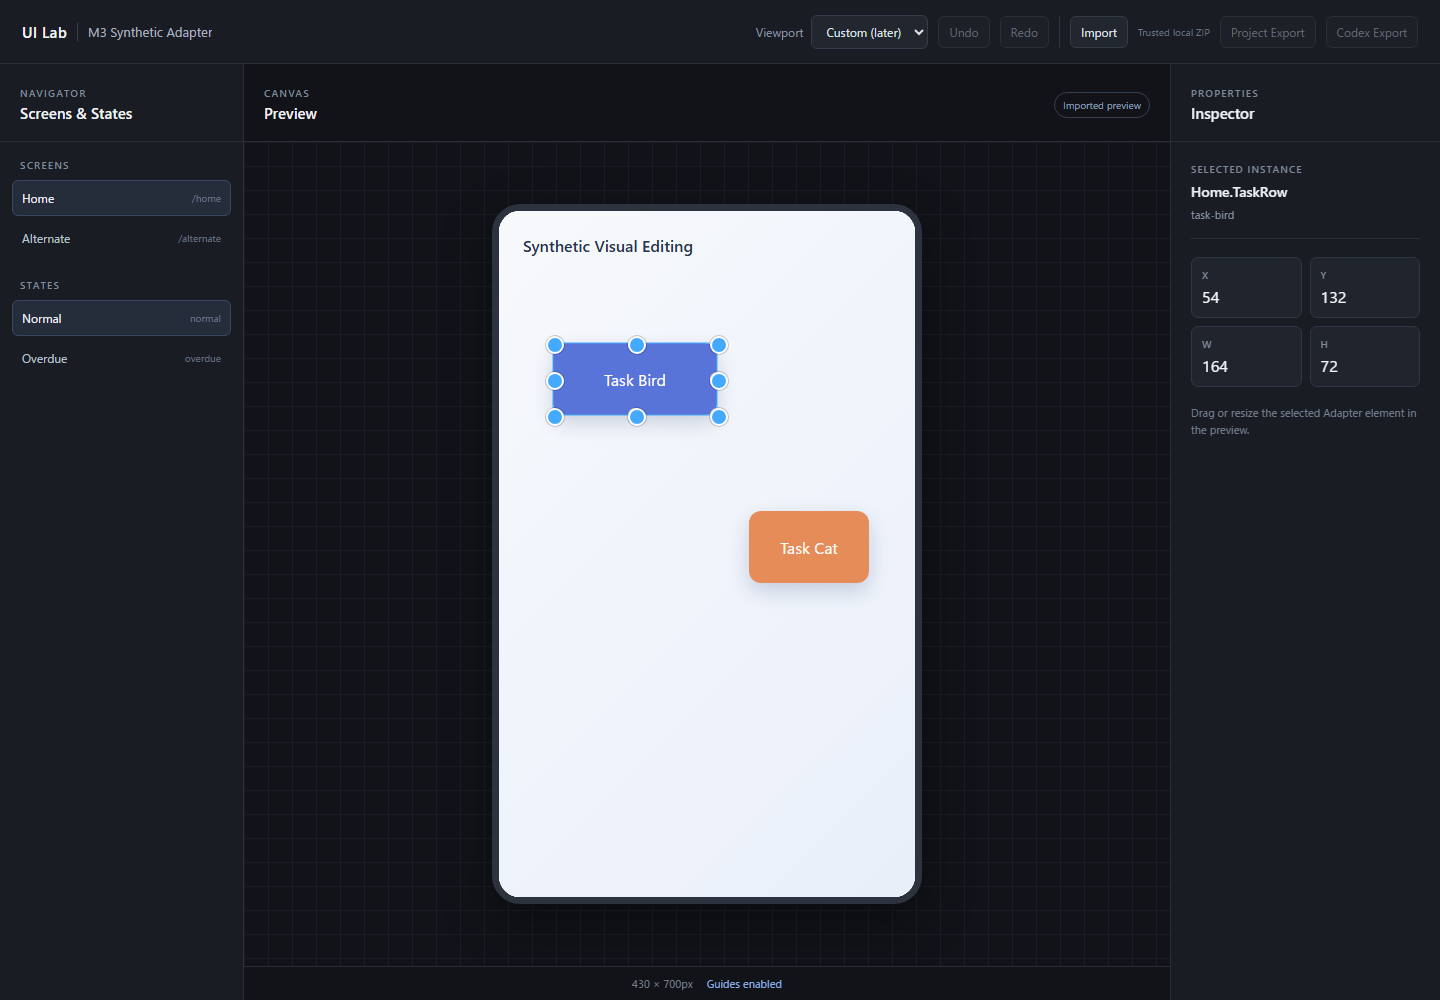
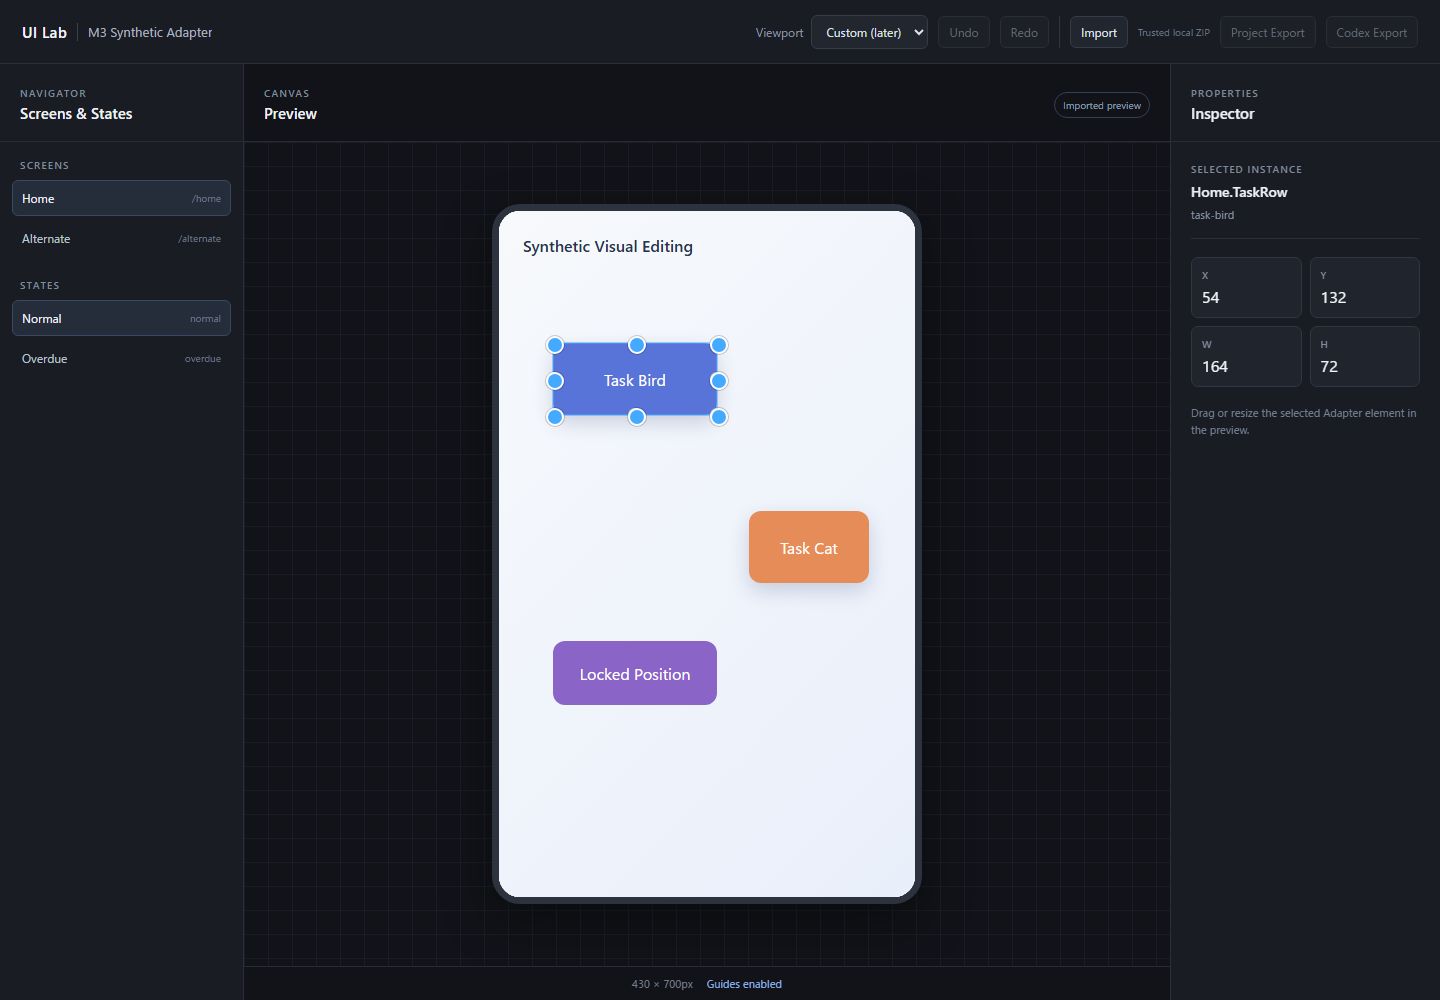
fix: persist resize position changes

Changed region(s): [[0.375, 0.62, 0.5, 0.713]]

diff --git a/e2e/m3.visual.pw.ts b/e2e/m3.visual.pw.ts
@@ -20,6 +20,11 @@ async function createSyntheticAdapterZip(): Promise<Buffer> {
       instances: 'multiple',
       editable: ['position', 'width', 'height'],
     },
+    'Home.LockedRow': {
+      selector: "[data-uilab-component='Home.LockedRow']",
+      instances: 'single',
+      editable: ['width', 'height'],
+    },
   }))
   zip.file('.uilab/tokens.json', JSON.stringify({ color: { accent: '#6f8cff' } }))
   zip.file('.uilab/states.json', JSON.stringify({
@@ -32,10 +37,12 @@ async function createSyntheticAdapterZip(): Promise<Buffer> {
       .canvas { position: relative; width: 100%; height: 100%; background: linear-gradient(135deg, #f7f9fc 0%, #e9effa 100%); }
       .title { position: absolute; left: 24px; top: 24px; color: #27344d; font-weight: 700; }
       [data-uilab-component='Home.TaskRow'] { position: absolute; display: grid; place-items: center; border-radius: 12px; color: white; background: #5874d8; box-shadow: 0 8px 20px rgba(40, 60, 110, .2); user-select: none; }
+      [data-uilab-component='Home.LockedRow'] { position: absolute; display: grid; place-items: center; border-radius: 12px; color: white; background: #8b64c7; user-select: none; }
     </style></head><body><main class="canvas">
       <div class="title">Synthetic Visual Editing</div>
       <div data-uilab-component="Home.TaskRow" data-uilab-id="task-bird" style="left: 54px; top: 132px; width: 164px; height: 72px;">Task Bird</div>
       <div data-uilab-component="Home.TaskRow" data-uilab-id="task-cat" style="left: 250px; top: 300px; width: 120px; height: 72px; background: #e68c58;">Task Cat</div>
+      <div data-uilab-component="Home.LockedRow" data-uilab-id="locked-row" style="left: 54px; top: 430px; width: 164px; height: 64px;">Locked Position</div>
     </main></body></html>`)
   return zip.generateAsync({ type: 'nodebuffer' })
 }
@@ -66,18 +73,41 @@ test('Milestone 3 visual editing flow', async ({ page }) => {
   await page.mouse.move(birdBox.x + 130, birdBox.y + 85, { steps: 8 })
   await page.mouse.up()
   await expect(page.getByTestId('measurement-x')).toHaveText('104')
-  const eastHandle = frame.locator('.uilab-manual-resize-handle--e').first()
-  await expect(eastHandle).toBeVisible()
-  const eastBox = await eastHandle.boundingBox()
-  if (!eastBox) throw new Error('Moveable east handle has no bounding box')
-  await eastHandle.hover()
-  await eastHandle.dispatchEvent('pointerdown', { bubbles: true, button: 0, pointerId: 1, clientX: 7, clientY: 7 })
-  await eastHandle.dispatchEvent('pointermove', { bubbles: true, button: 0, pointerId: 1, clientX: 49, clientY: 7 })
-  await eastHandle.dispatchEvent('pointerup', { bubbles: true, button: 0, pointerId: 1, clientX: 49, clientY: 7 })
-  await expect(page.getByTestId('measurement-width')).not.toHaveText('164')
-  await expect(page.getByTestId('measurement-x')).toHaveText('104')
+  const westHandle = frame.locator('.uilab-manual-resize-handle--w').first()
+  await expect(westHandle).toBeVisible()
+  await westHandle.dispatchEvent('pointerdown', { bubbles: true, button: 0, pointerId: 1, clientX: 7, clientY: 7 })
+  await westHandle.dispatchEvent('pointermove', { bubbles: true, button: 0, pointerId: 1, clientX: -35, clientY: 7 })
+  await westHandle.dispatchEvent('pointerup', { bubbles: true, button: 0, pointerId: 1, clientX: -35, clientY: 7 })
+  await expect(page.getByTestId('measurement-x')).toHaveText('62')
+  await expect(page.getByTestId('measurement-y')).toHaveText('182')
+  await expect(page.getByTestId('measurement-width')).toHaveText('206')
+  await expect(page.getByTestId('measurement-height')).toHaveText('72')
   await expect(page.getByTestId('selection-summary')).toContainText('X')
   await page.screenshot({ path: 'docs/screenshots/m3/02-moved-resized.png', fullPage: true })
+
+  await page.getByRole('button', { name: 'Undo' }).click()
+  await expect(page.getByTestId('selection-summary')).not.toBeVisible()
+  await bird.click()
+  await expect(page.getByTestId('measurement-x')).toHaveText('104')
+  await expect(page.getByTestId('measurement-y')).toHaveText('182')
+  await expect(page.getByTestId('measurement-width')).toHaveText('164')
+  await expect(page.getByTestId('measurement-height')).toHaveText('72')
+
+  await page.getByRole('button', { name: 'Redo' }).click()
+  await expect(page.getByTestId('selection-summary')).not.toBeVisible()
+  await bird.click()
+  await expect(page.getByTestId('measurement-x')).toHaveText('62')
+  await expect(page.getByTestId('measurement-y')).toHaveText('182')
+  await expect(page.getByTestId('measurement-width')).toHaveText('206')
+  await expect(page.getByTestId('measurement-height')).toHaveText('72')
+
+  const locked = frame.locator('[data-uilab-id="locked-row"]')
+  await locked.click()
+  await expect(frame.locator('.uilab-manual-resize-handle--w')).toHaveCount(0)
+  await expect(frame.locator('.uilab-manual-resize-handle--n')).toHaveCount(0)
+  await expect(frame.locator('.uilab-manual-resize-handle--e')).toBeVisible()
+  await expect(frame.locator('.uilab-manual-resize-handle--s')).toBeVisible()
+  await bird.click()
 
   const movedBirdBox = await bird.boundingBox()
   const iframeBox = await page.locator('iframe[title="M3 Synthetic Adapter preview"]').boundingBox()
@@ -90,8 +120,6 @@ test('Milestone 3 visual editing flow', async ({ page }) => {
   await page.screenshot({ path: 'docs/screenshots/m3/03-snap-guides.png', fullPage: true })
   await page.mouse.up()
 
-  await page.getByRole('button', { name: 'Undo' }).click()
-  await page.getByRole('button', { name: 'Redo' }).click()
   await page.getByRole('button', { name: /^Alternate/ }).click()
   await expect(page.getByTestId('selection-summary')).not.toBeVisible()
   await page.getByRole('button', { name: /^Home/ }).click()

diff --git a/src/components/editor/Preview.tsx b/src/components/editor/Preview.tsx
@@ -11,6 +11,7 @@ import {
   canResizeTarget,
   canResizeWidth,
   getElementFrame,
+  getResizeDirections,
   type EditableElementTarget,
   type VisualFrame,
 } from '../../features/visual-editing/model'
@@ -27,17 +28,6 @@ interface InteractionState {
   target: EditableElementTarget
   before: VisualFrame
   current: VisualFrame
-}
-
-const ALL_RESIZE_DIRECTIONS = ['nw', 'n', 'ne', 'w', 'e', 'sw', 's', 'se']
-
-function getResizeDirections(target: EditableElementTarget): string[] {
-  const width = canResizeWidth(target)
-  const height = canResizeHeight(target)
-  if (width && height) return ALL_RESIZE_DIRECTIONS
-  if (width) return ['w', 'e']
-  if (height) return ['n', 's']
-  return []
 }
 
 function sameFrame(first: VisualFrame, second: VisualFrame): boolean {
@@ -196,6 +186,17 @@ export function Preview() {
         interaction.current,
       ))
     } else {
+      if (canDragTarget(interaction.target)
+        && (interaction.before.x !== interaction.current.x || interaction.before.y !== interaction.current.y)) {
+        nextChanges.push(createPositionChange(
+          activeScreenId,
+          activeStateId,
+          interaction.target.instanceId,
+          interaction.target.componentId,
+          interaction.before,
+          interaction.current,
+        ))
+      }
       if (canResizeWidth(interaction.target) && interaction.before.width !== interaction.current.width) {
         nextChanges.push(createDimensionChange(
           activeScreenId,
@@ -322,8 +323,8 @@ export function Preview() {
     if (!interaction || interaction.type !== 'resize') return
     const translate = event.drag?.beforeTranslate ?? [0, 0]
     updateInteractionFrame({
-      x: interaction.before.x + (translate[0] ?? 0),
-      y: interaction.before.y + (translate[1] ?? 0),
+      x: canDragTarget(interaction.target) ? interaction.before.x + (translate[0] ?? 0) : interaction.before.x,
+      y: canDragTarget(interaction.target) ? interaction.before.y + (translate[1] ?? 0) : interaction.before.y,
       width: canResizeWidth(interaction.target) ? Math.max(1, event.width) : interaction.before.width,
       height: canResizeHeight(interaction.target) ? Math.max(1, event.height) : interaction.before.height,
     })

diff --git a/src/features/visual-editing/visualEditing.test.ts b/src/features/visual-editing/visualEditing.test.ts
@@ -6,6 +6,7 @@ import {
   canResizeHeight,
   canResizeTarget,
   canResizeWidth,
+  getResizeDirections,
   normalizeRectToContentArea,
 } from './model'
 import { createBlankProject } from '../project/blankProject'
@@ -42,6 +43,15 @@ describe('visual editing model', () => {
     expect(canResizeWidth({ editableProperties: ['width'] })).toBe(true)
     expect(canResizeHeight({ editableProperties: ['width'] })).toBe(false)
     expect(canResizeHeight({ editableProperties: ['height'] })).toBe(true)
+  })
+
+  it('only exposes north/west resize directions when position is editable', () => {
+    expect(getResizeDirections({ editableProperties: ['position', 'width', 'height'] })).toEqual([
+      'nw', 'n', 'ne', 'w', 'e', 'sw', 's', 'se',
+    ])
+    expect(getResizeDirections({ editableProperties: ['width', 'height'] })).toEqual(['e', 's', 'se'])
+    expect(getResizeDirections({ editableProperties: ['position', 'width'] })).toEqual(['w', 'e'])
+    expect(getResizeDirections({ editableProperties: ['height'] })).toEqual(['s'])
   })
 
   it('normalizes iframe content coordinates with document scroll, without iframe offset', () => {

diff --git a/src/features/visual-editing/model.ts b/src/features/visual-editing/model.ts
@@ -37,6 +37,18 @@ export function canResizeHeight(target: Pick<EditableElementTarget, 'editablePro
   return target.editableProperties.includes('height')
 }
 
+export function getResizeDirections(target: Pick<EditableElementTarget, 'editableProperties'>): string[] {
+  const width = canResizeWidth(target)
+  const height = canResizeHeight(target)
+  const position = canDragTarget(target)
+
+  if (width && height && position) return ['nw', 'n', 'ne', 'w', 'e', 'sw', 's', 'se']
+  if (width && height) return ['e', 's', 'se']
+  if (width) return position ? ['w', 'e'] : ['e']
+  if (height) return position ? ['n', 's'] : ['s']
+  return []
+}
+
 export function normalizeRectToContentArea(
   rect: Pick<DOMRect, 'left' | 'top' | 'width' | 'height'>,
   scrollX = 0,

diff --git a/docs/ARCHITECTURE.md b/docs/ARCHITECTURE.md
@@ -34,15 +34,15 @@ Selection state contains only the component ID, instance ID, editable properties
 
 ### Moveable placement and coordinates
 
-The Moveable React component is rendered through a React portal into an overlay root appended to the iframe document body. Its `target`, `container`, and `rootContainer` therefore share the iframe document's coordinate space. This avoids mixing the parent document's iframe offset with target `getBoundingClientRect()` values. The overlay root is fixed to the iframe content area and is recreated with the iframe document. Resize directions are mirrored by a small iframe-local pointer handle layer so resizing remains reliable across iframe pointer lifecycles; it uses the same Moveable-aligned frame and history path.
+The Moveable React component is rendered through a React portal into an overlay root appended to the iframe document body. Its `target`, `container`, and `rootContainer` therefore share the iframe document's coordinate space. This avoids mixing the parent document's iframe offset with target `getBoundingClientRect()` values. The overlay root is fixed to the iframe content area and is recreated with the iframe document. Resize directions are mirrored by a small iframe-local pointer handle layer so resizing remains reliable across iframe pointer lifecycles; it uses the same Moveable-aligned frame and history path. North/west handles are exposed only when `position` is editable, while position-locked targets can resize only from their east/south edges.
 
 All measurements use the iframe preview content area as origin `(0, 0)`. A normalized frame is `getBoundingClientRect()` plus the iframe document's scroll offset; the parent iframe element's position is intentionally never included. Viewport edges, viewport center lines, and other discovered editable elements are passed to Moveable as snap guide sources.
 
 ### Temporary visual changes and history
 
-The editor captures each target's initial inline transform, width, and height in `data-uilab-*` attributes on the transient iframe DOM. Drag applies a translate delta; resize applies width/height inline styles. These are preview-only adjustments and do not rewrite imported source or CSS.
+The editor captures each target's initial inline transform, width, and height in `data-uilab-*` attributes on the transient iframe DOM. Drag applies a translate delta; resize applies width/height inline styles and, for position-editable targets, the corresponding north/west x/y delta. Each completed interaction is committed as one history transaction, so a north/west resize can be undone and redone with its dimensions and position together. These are preview-only adjustments and do not rewrite imported source or CSS.
 
-Completed operations append Adapter-scoped `UiChange` records: drag uses one `position` record, while resize uses at most one `width` and one `height` record. The store commits the entire operation once on pointer release, so pointer-move events do not create history entries. Undo/redo swaps the project snapshot and `Preview` re-applies the resolved changes to the current iframe target using its captured baseline frame.
+Completed operations append Adapter-scoped `UiChange` records: drag uses one `position` record, while resize uses at most one `position`, one `width`, and one `height` record. The store commits the entire operation once on pointer release, so pointer-move events do not create history entries. Undo/redo swaps the project snapshot and `Preview` re-applies the resolved changes to the current iframe target using its captured baseline frame.
 
 ## Deliberate boundaries
 

diff --git a/README.md b/README.md
@@ -36,7 +36,7 @@ Imports are trusted local content. Remote URLs, backend execution, and arbitrary
 
 The authoritative Adapter v1 contract is [UI_LAB_ADAPTER_SPEC_v1.md](UI_LAB_ADAPTER_SPEC_v1.md). The implementation keeps adapter-specific validation isolated in `src/schemas/adapter.ts` and normalizes the external object documents into the internal editor model only after validation.
 
-Milestone 3 supports selecting Adapter-exposed instances, dragging elements whose Adapter allows `position`, resizing elements whose Adapter allows `width` and/or `height`, snapping to viewport/element guides, and reviewing X/Y/W/H in the Inspector placeholder. Changes are preview-only and are committed to the existing undo/redo history when an interaction completes.
+Milestone 3 supports selecting Adapter-exposed instances, dragging elements whose Adapter allows `position`, resizing elements whose Adapter allows `width` and/or `height`, snapping to viewport/element guides, and reviewing X/Y/W/H in the Inspector placeholder. Position-editable north/west resizing persists x/y and dimensions in one undo/redo transaction; position-locked targets expose only east/south resize handles. Changes are preview-only and are committed to the existing undo/redo history when an interaction completes.
 
 Moveable controls render inside the imported iframe document so all measurements use the preview content area's `(0, 0)` origin. Selection is reset when screen/state/import/iframe lifecycle changes. Styling Inspector editing, Project/Codex Export, source rewriting, and screenshot export remain future milestones.
 
